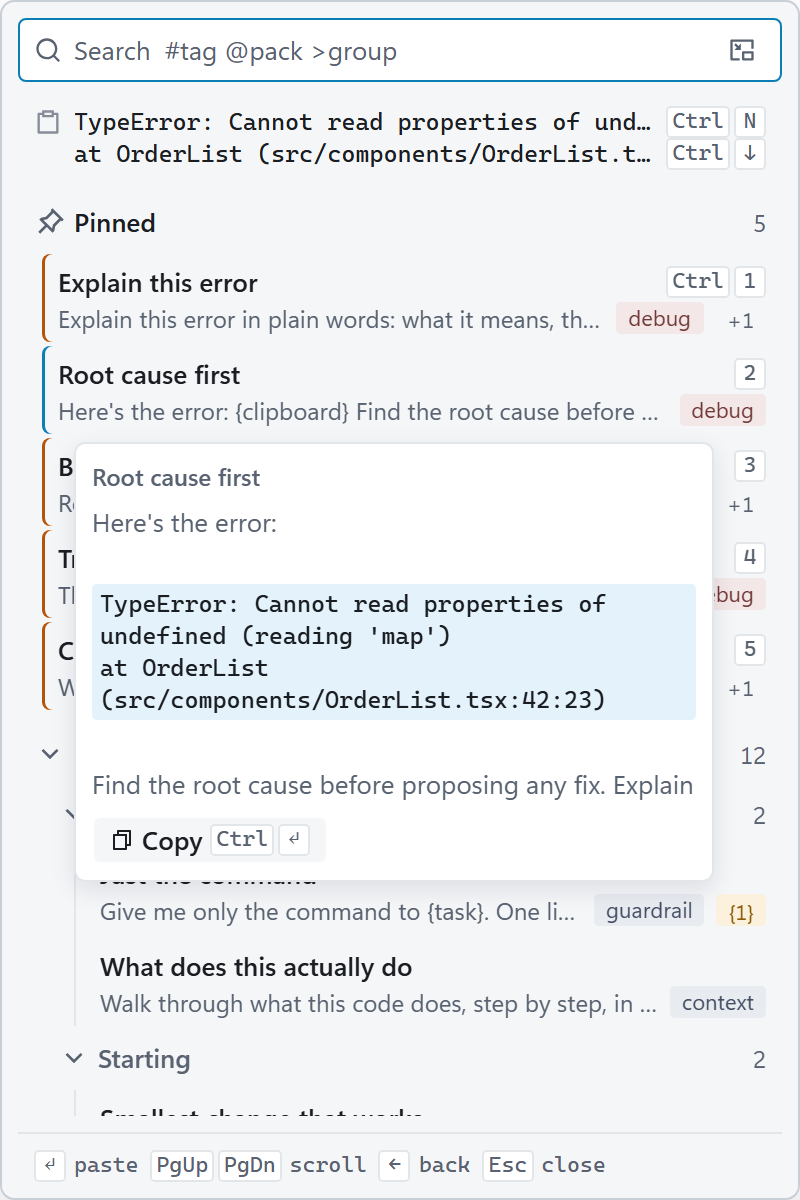
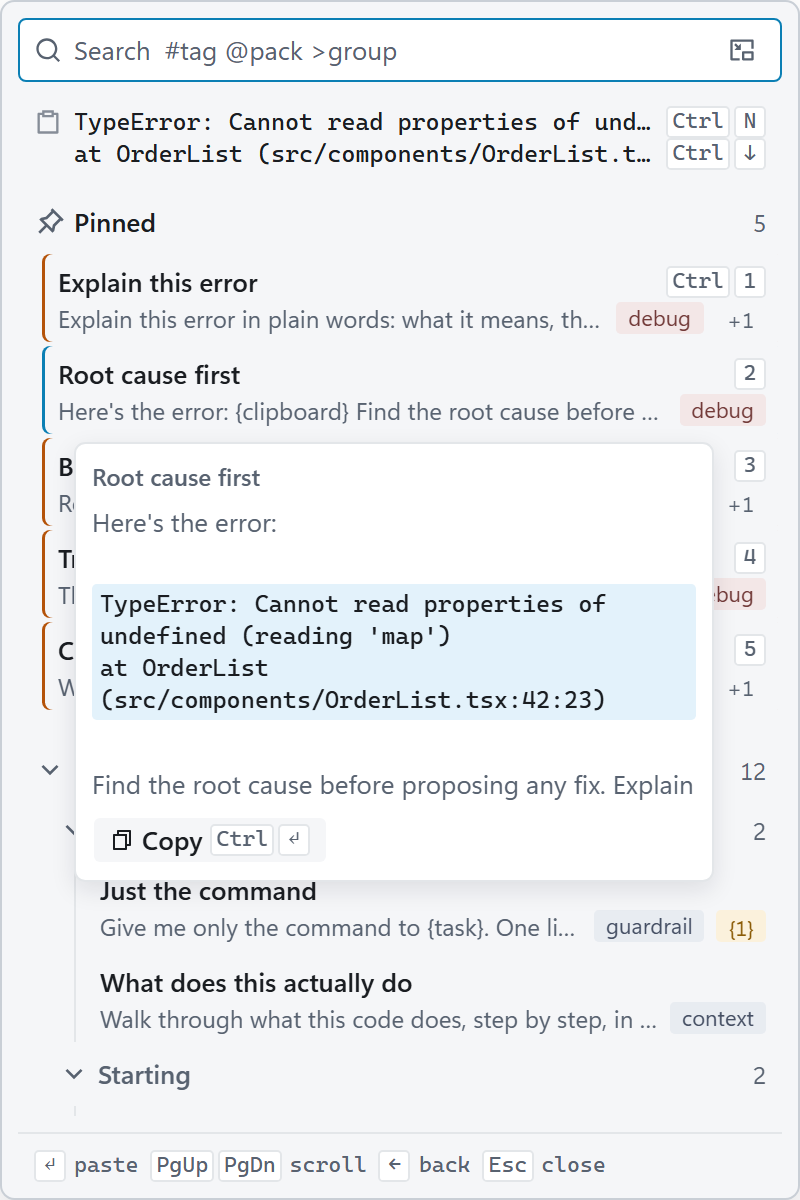
Manager: the sidebar's rows are the popup's compact rows, with 16 px between packs
The user liked the popup's compact tree and asked for the sidebar to
match it. A prompt row is one class in tree.tsx now (treeRowClass): the
24 px title-only row for the sidebar and the popup's Compact density,
and the popup's two-line Comfortable row 4 px taller each side. The
sidebar's rows were 28 px. With rows that tight the packs ran together
at 8 px, so TreeSection puts 16 px between them, in both windows. A
manager case pins the two heights and the gap; BEHAVIOR.md's tree and
rhythm paragraphs say so. Screenshots, the social card and the clip
regenerated.

diff --git a/src/components/tree.tsx b/src/components/tree.tsx
@@ -35,6 +35,15 @@ export const treeHeaderClass = (level: TreeLevel) =>
 // selected pack or group carries the bar instead of a tint (SELECTED_BAR)
 export const treeFillClass = (selected: boolean) => (selected ? SELECTED_BAR : "hover:bg-hover")
 
+// A prompt row's layout and type; the element, its fill and its bars are
+// the caller's. A title-only row is the compact one, 24 px: the sidebar's
+// rows are always that, and the popup's in Compact density (the user
+// liked the popup's compact tree and asked for the sidebar to match it,
+// 2026-10-10); the popup's two-line row in Comfortable takes 4 px more
+// each side for its excerpt line.
+export const treeRowClass = (compact: boolean) =>
+  cn("flex min-w-0 cursor-pointer select-none items-center gap-1.5 rounded-md px-2 text-ui font-medium", compact ? "py-0.5" : "py-1")
+
 // The fold chevron, in the glyph column every row shares
 export function TreeChevron({ open, className }: { open: boolean; className?: string }) {
   const Chev = open ? RiArrowDownSLine : RiArrowRightSLine
@@ -52,9 +61,11 @@ export function TreeName({ children }: { children: ReactNode }) {
   )
 }
 
-// One pack: its header and, unfolded, its children; 8 px to the next pack
+// One pack: its header and, unfolded, its children; 16 px to the next
+// pack, so a pack reads as its own block in a list of compact rows (8 px,
+// one row gap short of a row, let the packs run together; 2026-10-10)
 export function TreeSection({ className, ...props }: ComponentProps<"div">) {
-  return <div className={cn("mb-2", className)} {...props} />
+  return <div className={cn("mb-4", className)} {...props} />
 }
 
 // One group inside a pack: its header and, unfolded, its rows

diff --git a/e2e/manager.spec.ts b/e2e/manager.spec.ts
@@ -126,6 +126,20 @@ test("the tree is one tab stop and the arrow keys walk it", async ({ page }) => 
   await expect(items.first()).toBeFocused()
 })
 
+test("the sidebar's rows are the popup's compact rows, and packs sit a row's height apart", async ({ page }) => {
+  // One tree on two windows: a title-only row is the 24 px row the
+  // popup draws in Compact, under the 28 px headers (2026-10-10)
+  const row = await promptRow(page, "Just the command").boundingBox()
+  expect(row!.height).toBeCloseTo(24, 0)
+  const pack = await tree(page).getByRole("treeitem", { name: "Everyday, 12 prompts" }).boundingBox()
+  expect(pack!.height).toBeCloseTo(28, 0)
+  // 16 px from a pack's last row to the next pack's header, so a pack
+  // reads as a block among rows that tight
+  const everyday = await tree(page).locator("[data-pack='Everyday']").boundingBox()
+  const next = await tree(page).locator("[data-pack='Mock Groups']").boundingBox()
+  expect(next!.y - (everyday!.y + everyday!.height)).toBeCloseTo(16, 0)
+})
+
 test("Left folds a pack and Right unfolds it", async ({ page }) => {
   const pack = tree(page).getByRole("treeitem", { name: "Mock Groups, 4 prompts" })
   await expect(pack).toHaveAttribute("aria-expanded", "true")

diff --git a/src/manager/Sidebar.tsx b/src/manager/Sidebar.tsx
@@ -10,7 +10,7 @@ import {
 import { C, type OrderBy, type Snippet, type TreeRow } from "@/lib/core"
 import { cn } from "@/lib/utils"
 import { Chip, Count, MATCH_HIT } from "@/components/prompt-bits"
-import { PINNED_BAR, TreeChevron, TreeChildren, TreeGroup, TreeName, TreeSection, treeFillClass, treeHeaderClass } from "@/components/tree"
+import { PINNED_BAR, TreeChevron, TreeChildren, TreeGroup, TreeName, TreeSection, treeFillClass, treeHeaderClass, treeRowClass } from "@/components/tree"
 import { SearchClear, commitKey, searchBoxClass } from "@/components/field"
 import { SELECTED_BAR } from "@/components/menu-styles"
 import { DEFAULT_PACK, useManager, type LibraryFocus } from "./state"
@@ -803,7 +803,9 @@ export function Sidebar() {
         title={title}
         data-snip-id={s.id}
         className={cn(
-          "group flex min-w-0 cursor-pointer select-none items-center gap-1.5 rounded-md px-2 py-1 text-ui font-medium focus-ring",
+          // The compact row the popup's Compact density draws (tree.tsx)
+          treeRowClass(true),
+          "group focus-ring",
           active
             ? cn("text-foreground", SELECTED_BAR)
             : cn("text-foreground hover:bg-hover", s.pinned && PINNED_BAR),

diff --git a/src/popup/Row.tsx b/src/popup/Row.tsx
@@ -4,7 +4,7 @@ import { C, type RowIconName, type Snippet } from "@/lib/core"
 import { cn } from "@/lib/utils"
 import { HighlightedTitle, InputsBadge, Keys, MatchText, TagList } from "@/components/prompt-bits"
 import { SELECTED_BAR } from "@/components/menu-styles"
-import { PINNED_BAR } from "@/components/tree"
+import { PINNED_BAR, treeRowClass } from "@/components/tree"
 
 // The popup's list row. Its own module so the design-system bundle
 // (design/entry.tsx) can render the real row, not a copy; the pieces it is
@@ -133,8 +133,9 @@ export const Row = memo(function Row({
       data-selected={selected}
       data-icon={icon}
       className={cn(
-        "flex min-w-0 scroll-mt-[30px] cursor-pointer select-none items-center gap-1.5 rounded-md px-2 text-ui font-medium",
-        compact ? "py-0.5" : "py-1",
+        // The shared tree's row (tree.tsx); the scroll margin clears the sticky header
+        treeRowClass(compact),
+        "scroll-mt-[30px]",
         selected ? cn("text-foreground", SELECTED_BAR) : cn("text-foreground hover:bg-hover", s.pinned && PINNED_BAR),
         picked && "bg-primary/20"
       )}

diff --git a/BEHAVIOR.md b/BEHAVIOR.md
@@ -128,7 +128,12 @@ weight the popup's rows and the overview's cards use too; the sidebar's
 12 px body is the 13/20 body size since 2026-10-10); a pack's children step 12 px in, a group's prompts
 hang from a guide line under its chevron, headers carry the rows' 8 px
 side padding so every count ends on the rows' right edge, and counts sit
-there in mono. A pinned prompt carries a 1.5 px Warn bar at its left edge
+there in mono. A prompt row is 24 px, the row the popup draws in Compact
+density (`treeRowClass`): the sidebar's rows were 28 px until 2026-10-10,
+when the user, liking the popup's compact tree, asked for the sidebar to
+match it (a title-only row is the compact row; only the popup's two-line
+Comfortable row is taller). Packs sit 16 px apart (`TreeSection`), twice
+the earlier 8, so a pack reads as its own block among rows that tight. A pinned prompt carries a 1.5 px Warn bar at its left edge
 (`PINNED_BAR`), the selection bar's shape in the pin's colour, and so
 does its card in the overview (inside the card's shadow, in place of the
 pin icon it drew); the open or selected row's Focus bar wins on a row
@@ -611,9 +616,11 @@ box). A tree of `treeitem`s, like the sidebar, was the other way; it would
 have made the headers keyboard rows, which they have never been here.
 
 **The list's rhythm.** Rows sit 2 px apart (the rounded fill already
-parts them) and packs 8 px apart; pack and group headers are 24 px tall.
-It was 6 and 12 with 28 px headers, a 50 px pitch for a 44 px row, which
-showed seven prompts in the default window where eight now fit (twelve in
+parts them) and packs 16 px apart (8 until 2026-10-10, when the sidebar
+took the popup's compact row and the packs needed more air than a row's
+gap to read as blocks). The rows were 6 and the packs 12 apart with
+28 px headers before 0.2.21, a 50 px pitch for a 44 px row, which showed
+seven prompts in the default window where eight now fit (twelve in
 Compact). The list is the sidebar's tree (`components/tree.tsx`, see
 *The tree tells its levels apart without colour* above): a pack's rows
 and groups step 12 px in from its header, a group's rows hang from the
